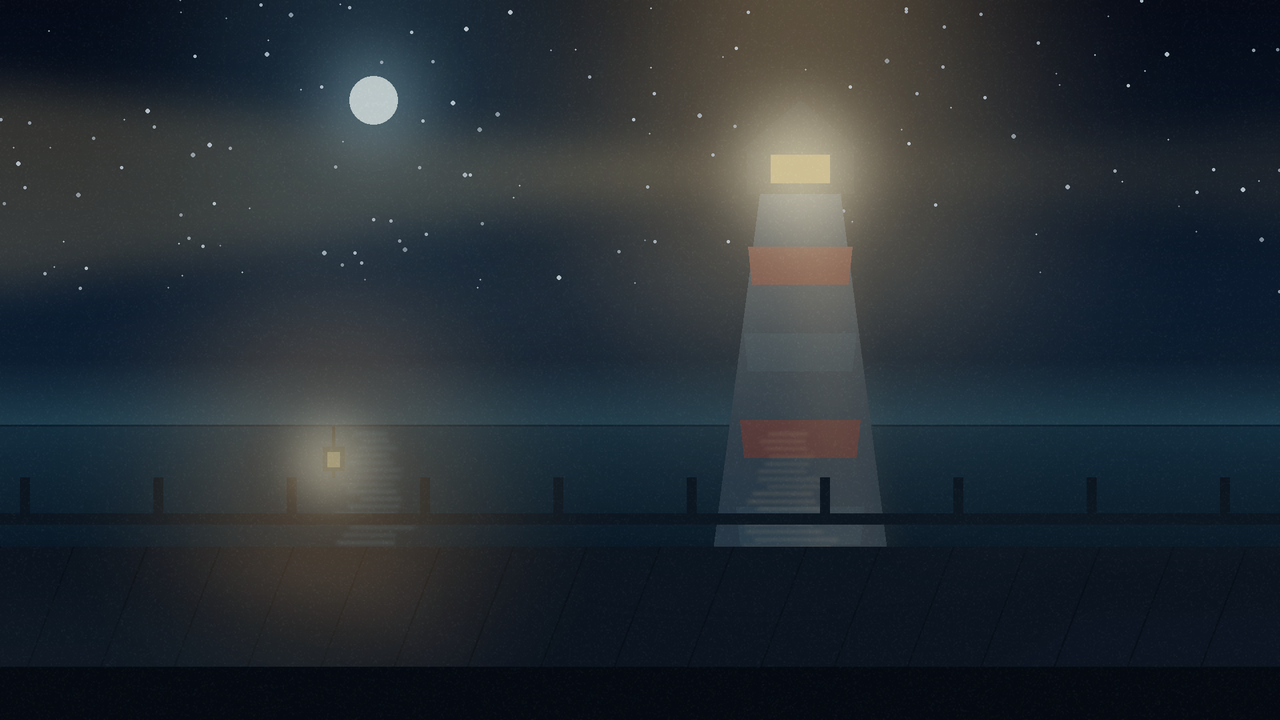
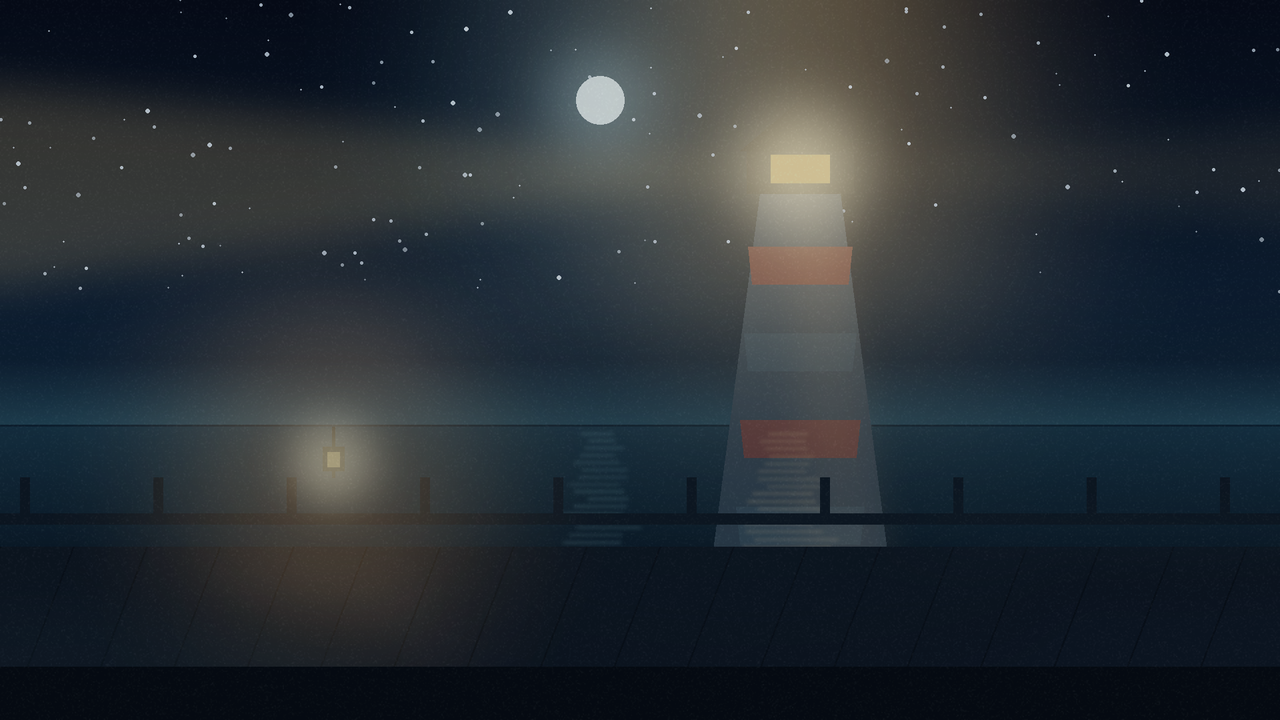
V0.5: web skin for loading status bar, moon placement, opaque textbox, v05 browser flow

Changed region(s): [[0.1875, 0.0, 0.3438, 0.275], [0.4062, 0.0, 0.5625, 0.2444]]

diff --git a/tools/web_test/v05_flow.js b/tools/web_test/v05_flow.js
@@ -1,0 +1,270 @@
+// V0.5 前后对比截图 + 流程冒烟（Playwright + 系统 Chrome）。由 v02_flow.js 改写，界面坐标与 V0.2 相同。
+//   --ui before|after：before = main 上的 V0.2-P1 构建；after = V0.5 构建（多一个 splashscreen）。两者按钮坐标相同。
+//   额外：捕捉“加载画面”（页面 presplash 阶段、游戏内 splash 阶段）并校验 presplash 图确实是自制的那一张。
+//
+// 重要：这是【桌面 Chromium】（含视口 / 触控 / iPhone UA 模拟），不是真实手机，更不是 iOS Safari。
+//
+// 用法：
+//   node v02_flow.js compare  --ui v01|v02 --viewport desktop|mobile --url http://127.0.0.1:8002/index.html --out <目录>
+//   node v02_flow.js saveload --ui v02 --viewport desktop|mobile --url ... --out <目录>
+// compare：从主菜单开始，真实点击/按键走完 3 条分支（选项 1/1/1、2/2/2、3/3/3），沿途保存
+//          主菜单 / 对话 / 三次选项 / 三个结局卡片 / 返回主菜单 的截图，并核对到达的结局。
+// saveload：第一个选项后在第二次选择处存档 -> 刷新页面 -> 读档 -> 按 +0/+0 通关，应到达结局二（信任度 2 被恢复）。
+const { chromium } = require('playwright-core');
+const { PNG } = require('pngjs');
+const fs = require('fs');
+const path = require('path');
+
+const argv = process.argv.slice(2);
+const cmd = argv[0] || 'compare';
+const opt = (n, d) => { const i = argv.indexOf('--' + n); return i >= 0 ? argv[i + 1] : d; };
+const UI_TAG = opt('ui', 'after');
+const UI = 'v02';  // 界面坐标 / 判读逻辑沿用 V0.2
+const VP = opt('viewport', 'desktop');
+const URL = opt('url', 'http://127.0.0.1:8002/index.html');
+const OUT = path.resolve(opt('out', 'shots'));
+fs.mkdirSync(OUT, { recursive: true });
+
+const MOBILE = VP === 'mobile';
+const sleep = ms => new Promise(r => setTimeout(r, ms));
+const IPHONE_UA = 'Mozilla/5.0 (iPhone; CPU iPhone OS 17_5 like Mac OS X) AppleWebKit/605.1.15 (KHTML, like Gecko) Version/17.5 Mobile/15E148 Safari/604.1';
+const ctxOpts = MOBILE
+  ? { viewport: { width: 844, height: 390 }, deviceScaleFactor: 2, isMobile: true, hasTouch: true, userAgent: IPHONE_UA }
+  : { viewport: { width: 1280, height: 720 } };
+
+// 各版本界面里的点击坐标（游戏逻辑坐标 1280x720）
+const UIS = {
+  v01: { start: [96, 277], load: [96, 319], choiceX: 640, choiceY: [366, 422, 480], quickSave: [662, 710], slot1: [503, 280], advance: [640, 120] },
+  v02: { start: [140, 282], load: [140, 350], choiceX: 640, choiceY: [125, 237, 345], quickSave: [864, 528], quickSaveTouch: [1083, 530], slot1: [549, 294], advance: [640, 20] },
+};
+const U = UIS[UI];
+
+const results = [];
+const record = (name, ok, detail) => { results.push({ name, ok, detail }); console.log(`${ok ? 'PASS' : 'FAIL'}  ${name}${detail ? ' — ' + detail : ''}`); };
+
+function launch() {
+  return chromium.launch({ executablePath: process.env.CHROME_PATH || '/usr/local/bin/google-chrome', args: ['--no-sandbox', '--use-gl=swiftshader', '--enable-unsafe-swiftshader'] });
+}
+
+async function open(browser, ctx = null) {
+  ctx = ctx || await browser.newContext(ctxOpts);
+  const page = await ctx.newPage();
+  const logs = [];
+  page.on('console', m => { const t = m.text(); if (!/GL Driver Message/.test(t)) logs.push(`${m.type()}: ${t.slice(0, 300)}`); });
+  page.on('pageerror', e => logs.push('pageerror: ' + e.message.slice(0, 300)));
+  page.on('requestfailed', r => logs.push('requestfailed: ' + r.url()));
+  page.on('response', r => { if (r.status() >= 400) logs.push(`http ${r.status()}: ${r.url()}`); });
+  return { ctx, page, logs };
+}
+const errorCount = logs => logs.filter(l => /pageerror|requestfailed|^http [45]|^error/i.test(l)).length;
+
+const grab = async page => PNG.sync.read(await page.screenshot());
+const savePng = (img, name) => fs.writeFileSync(path.join(OUT, `${UI_TAG}-${VP}-${name}.png`), PNG.sync.write(img));
+
+function geo(page, img) {
+  const vp = page.viewportSize();
+  const scale = Math.min(vp.width / 1280, vp.height / 720);
+  const ox = (vp.width - 1280 * scale) / 2, oy = (vp.height - 720 * scale) / 2;
+  const k = img ? img.width / vp.width : 1;
+  return { scale, ox, oy, k, px: gx => Math.round((ox + gx * scale) * k), py: gy => Math.round((oy + gy * scale) * k) };
+}
+async function tap(page, gx, gy) {
+  const g = geo(page);
+  const x = g.ox + gx * g.scale, y = g.oy + gy * g.scale;
+  if (MOBILE) await page.touchscreen.tap(x, y); else await page.mouse.click(x, y);
+}
+async function advance(page) {
+  if (MOBILE) await tap(page, ...U.advance); else await page.keyboard.press('Enter');
+}
+
+// 游戏坐标区域内的像素差异数（容差为 RGB 差值之和）
+function regionDiff(a, b, page, [x0, y0, x1, y1], tol = 24) {
+  if (a.width !== b.width || a.height !== b.height) return Infinity;
+  const g = geo(page, a);
+  let n = 0;
+  for (let y = g.py(y0); y < g.py(y1); y++) for (let x = g.px(x0); x < g.px(x1); x++) {
+    const i = (y * a.width + x) * 4;
+    if (Math.abs(a.data[i] - b.data[i]) + Math.abs(a.data[i + 1] - b.data[i + 1]) + Math.abs(a.data[i + 2] - b.data[i + 2]) > tol) n++;
+  }
+  return n;
+}
+const FULL = [0, 0, 1280, 720];
+// V0.5：立绘呼吸、灯光呼吸会让两侧与灯下像素持续微动，所以停住判读只看对话框中间一段（避开立绘）
+const TEXT_REGION = [420, 560, 860, 700];
+function countNear(img, page, rect, rgb, dist = 36) {
+  const g = geo(page, img);
+  let n = 0;
+  for (let y = g.py(rect[1]); y < g.py(rect[3]); y++) for (let x = g.px(rect[0]); x < g.px(rect[2]); x++) {
+    const i = (y * img.width + x) * 4;
+    if (Math.abs(img.data[i] - rgb[0]) + Math.abs(img.data[i + 1] - rgb[1]) + Math.abs(img.data[i + 2] - rgb[2]) < dist) n++;
+  }
+  return n;
+}
+// V0.2 结局卡片：用标题字色识别（结局一金 / 结局二冷白 / 结局三冷青灰）
+const TINTS = { 1: [246, 213, 142], 2: [216, 236, 238], 3: [143, 182, 196] };
+function cardNumber(img, page) {
+  const rect = [330, 150, 950, 300];
+  let best = null, bestN = 0;
+  for (const [n, rgb] of Object.entries(TINTS)) {
+    const c = countNear(img, page, rect, rgb, 20);
+    if (c > bestN) { bestN = c; best = Number(n); }
+  }
+  const minPx = 600 * geo(page, img).scale * geo(page, img).k * geo(page, img).scale * geo(page, img).k;
+  return bestN > minPx ? best : null;
+}
+function isMainMenu(img, page) {
+  if (UI === 'v01') {
+    const g = geo(page, img);
+    const px = (gx, gy) => { const i = (g.py(gy) * img.width + g.px(gx)) * 4; return [img.data[i], img.data[i + 1], img.data[i + 2]]; };
+    return px(100, 100).every(v => v < 40) && px(100, 600).every(v => v < 40);
+  }
+  return countNear(img, page, [40, 60, 520, 160], [246, 213, 142], 30) > 400 * Math.pow(geo(page, img).scale * geo(page, img).k, 2);
+}
+
+// 加载阶段取帧：页面 presplash 阶段 / 游戏内 splash 阶段（V0.5 才有）。返回 {presplash, splash, info}
+const SPLASH_RECT = [380, 150, 900, 330];   // 游戏坐标：splash 标题“雾港来信”所在区域（金色字）
+async function waitMainMenu(page, timeoutMs = 300000, loadingCapture = false) {
+  const t0 = Date.now();
+  let prev = await grab(page), stable = 0;
+  const cap = { presplash: null, splash: null, info: null };
+  while (Date.now() - t0 < timeoutMs) {
+    await sleep(loadingCapture ? 400 : 1000);
+    const cur = await grab(page);
+    if (loadingCapture) {
+      const dom = await page.evaluate(() => {
+        const el = document.getElementById('presplash');
+        if (!el) return null;
+        const cs = getComputedStyle(el);
+        return { src: el.getAttribute('src'), display: cs.display, naturalWidth: el.naturalWidth, naturalHeight: el.naturalHeight, complete: el.complete };
+      });
+      if (dom && dom.display !== 'none' && dom.complete && !cap.presplash) { cap.presplash = cur; cap.info = dom; }
+      const gold = countNear(cur, page, SPLASH_RECT, [246, 214, 144], 40);
+      const preVisible = dom && dom.display !== 'none';
+      if (!preVisible && gold > 3000 * Math.pow(geo(page, cur).scale * geo(page, cur).k, 2) && !cap.splash) cap.splash = cur;
+    }
+    stable = regionDiff(prev, cur, page, FULL) < 3000 ? stable + 1 : 0;
+    prev = cur;
+    if (isMainMenu(cur, page) && stable >= 2) { cap.sec = (Date.now() - t0) / 1000; return loadingCapture ? cap : cap.sec; }
+  }
+  throw new Error('等待主菜单超时');
+}
+
+// 推进剧情，直到画面停住（选项菜单 / V0.2 结局卡片 / 回到主菜单）。返回所有帧。
+async function advanceUntilStuck(page, { maxSteps = 90, stopOnCard = false, stepMs = 1300 } = {}) {
+  const region = UI === 'v01' ? FULL : TEXT_REGION;
+  const thresh = UI === 'v01' ? 200 : 60;
+  const frames = [await grab(page)];
+  let same = 0;
+  for (let i = 0; i < maxSteps; i++) {
+    await advance(page);
+    await sleep(stepMs);
+    const cur = await grab(page);
+    frames.push(cur);
+    if (stopOnCard && UI === 'v02' && cardNumber(cur, page)) { frames.card = true; return frames; }
+    same = regionDiff(frames[frames.length - 2], cur, page, region) < thresh ? same + 1 : 0;
+    if (same >= 2) return frames;
+  }
+  throw new Error('推进剧情超过最大步数仍未停下');
+}
+
+async function pickChoice(page, idx) {
+  await tap(page, U.choiceX, U.choiceY[idx]);
+  await sleep(1600);
+}
+
+async function playBranch(browser, tag, picks, expected, extra) {
+  const { page, logs } = await open(browser);
+  await page.goto(URL);
+  let loadSec;
+  if (extra) {
+    const cap = await waitMainMenu(page, 300000, true);
+    loadSec = cap.sec;
+    if (cap.presplash) savePng(cap.presplash, '00-loading-presplash');
+    if (cap.splash) savePng(cap.splash, '00b-loading-splash');
+    record(`${UI_TAG}/${VP} 加载画面`, !!cap.presplash,
+      `页面 presplash：${JSON.stringify(cap.info)}；捕捉到页面 presplash 帧=${!!cap.presplash}；捕捉到游戏内 splash 帧=${!!cap.splash}（before 构建没有 splash，期望 false）`);
+  } else {
+    loadSec = await waitMainMenu(page);
+  }
+  const main = await grab(page);
+  if (extra) savePng(main, '01-main-menu');
+  await tap(page, ...U.start);
+  await sleep(4500);
+  for (let m = 0; m < 3; m++) {
+    const frames = await advanceUntilStuck(page, { stepMs: extra && m === 0 ? 2300 : 1300 });
+    let idxFirst = frames.length - 1;
+    while (idxFirst > 0 && regionDiff(frames[idxFirst - 1], frames[idxFirst], page, TEXT_REGION) < 60) idxFirst--;
+    if (extra) {
+      savePng(frames[Math.max(0, idxFirst - 2)], `02-dialogue-${m + 1}`);
+      savePng(frames[frames.length - 1], `03-choice-${m + 1}`);
+    }
+    await pickChoice(page, picks[m]);
+  }
+  const frames = await advanceUntilStuck(page, { stopOnCard: true, maxSteps: 120 });
+  await sleep(2500);
+  const card = await grab(page);
+  const ending = cardNumber(card, page);
+  savePng(frames[Math.max(0, frames.length - 3)], `04-ending-${expected}-dialogue`);
+  savePng(card, `05-ending-${expected}-card`);
+  await tap(page, 640, 648);
+  await sleep(3500);
+  const backAtMenu = isMainMenu(await grab(page), page);
+  const ok = ending === expected && backAtMenu && errorCount(logs) === 0;
+  record(`${UI_TAG}/${VP} 分支 ${tag}（选项 ${picks.map(p => p + 1).join('/')}）`, ok,
+    `到达结局卡片=${ending}（期望 ${expected}）；回到主菜单=${backAtMenu}；页面错误/失败请求=${errorCount(logs)}；首次到主菜单 ${loadSec.toFixed(1)}s`);
+  await page.close();
+}
+
+async function compare(browser) {
+  await playBranch(browser, 'A_true', [0, 0, 0], 1, true);
+  await playBranch(browser, 'B_half', [1, 1, 1], 2, false);
+  await playBranch(browser, 'C_miss', [2, 2, 2], 3, false);
+}
+
+async function saveload(browser) {
+  const ctx = await browser.newContext(ctxOpts);
+  let { page, logs } = await open(browser, ctx);
+  await page.goto(URL);
+  await waitMainMenu(page);
+  await tap(page, ...U.start); await sleep(4500);
+  await advanceUntilStuck(page); await pickChoice(page, 0);
+  await advanceUntilStuck(page);
+  await tap(page, ...(MOBILE && U.quickSaveTouch ? U.quickSaveTouch : U.quickSave)); await sleep(2200);
+  savePng(await grab(page), 'save-1-screen');
+  await tap(page, ...U.slot1); await sleep(2200);
+  savePng(await grab(page), 'save-2-slot1-saved');
+  await page.close();
+
+  ({ page, logs } = await open(browser, ctx));
+  await page.goto(URL);
+  await waitMainMenu(page);
+  await tap(page, ...U.load); await sleep(2500);
+  savePng(await grab(page), 'save-3-load-screen-after-reload');
+  await tap(page, ...U.slot1); await sleep(3500);
+  savePng(await grab(page), 'save-4-after-load');
+  await pickChoice(page, 1);
+  await advanceUntilStuck(page); await pickChoice(page, 1);
+  const frames = await advanceUntilStuck(page, { stopOnCard: true, maxSteps: 120 });
+  await sleep(2500);
+  const card = await grab(page);
+  const ending = UI === 'v02' ? cardNumber(card, page) : null;
+  savePng(card, 'save-5-ending-after-load');
+  record(`${UI_TAG}/${VP} 存档 -> 刷新页面 -> 读档 -> 按 +0/+0 通关`, ending === 2 && errorCount(logs) === 0,
+    `读档后到达结局=${ending}（期望 2；信任度未恢复则会是 3）；页面错误/失败请求=${errorCount(logs)}`);
+  await page.close();
+}
+
+(async () => {
+  const browser = await launch();
+  try {
+    if (cmd === 'compare') await compare(browser);
+    else if (cmd === 'saveload') await saveload(browser);
+    else throw new Error('未知子命令 ' + cmd);
+  } catch (e) {
+    record('脚本异常', false, e.message);
+  } finally {
+    await browser.close();
+  }
+  fs.writeFileSync(path.join(OUT, `${cmd}-${UI_TAG}-${VP}.json`), JSON.stringify({ ui: UI_TAG, viewport: VP, url: URL, results }, null, 2));
+  process.exit(results.every(r => r.ok) ? 0 : 1);
+})();

diff --git a/tools/verify_web_build.py b/tools/verify_web_build.py
@@ -3,7 +3,7 @@
 
   apply-presplash <项目目录> <产物目录>
       把项目根目录的 web-presplash.(png|jpg|webp) 放进产物，删除 Ren'Py 默认的 web-presplash.jpg，
-      改写 index.html / pwa_catalog.json 的引用，并按 Launcher 的方式重新生成 <产物目录>.zip。
+      改写 index.html / pwa_catalog.json 的引用，给加载状态条注入一小段 CSS 外观覆盖，并按 Launcher 的方式重新生成 <产物目录>.zip。
       （官方 CLI web_build 在这一步有 bug，见 tools/build_web.sh 里的说明；Launcher 图形界面没有。）
   check <项目目录> <产物目录>
       校验：index.html 引用的 presplash 存在且与项目文件逐字节一致；默认 presplash 已被替换；
@@ -16,6 +16,17 @@ import re
 import shutil
 import sys
 import zipfile
+
+SKIN_MARK = "mistharbor-web-skin"
+## 只覆盖 index.html 顶部“加载状态条”的外观（默认是黑底 + 浏览器原生蓝色进度条）与页面底色，使其与夜雾港口风格一致。
+## 没有改动任何脚本 / 加载逻辑。
+SKIN_CSS = """  <style id="mistharbor-web-skin">
+    html, body { background: #05080d; }
+    #statusDiv { background: rgba(6, 12, 22, 0.86); border-bottom: 1px solid rgba(95, 184, 196, 0.55); border-radius: 0 0 10px 10px; }
+    #statusTextDiv { color: #9fc4cf; letter-spacing: 0.04em; }
+    #statusProgress { accent-color: #f3c677; }
+    #ContextButton { color: rgba(159, 196, 207, 0.8); }
+  </style>"""
 
 NAMES = ["web-presplash.png", "web-presplash.jpg", "web-presplash.webp"]
 
@@ -40,6 +51,8 @@ def apply_presplash(project, out):
     with open(idx, encoding="utf-8") as f:
         html = f.read()
     html = html.replace("web-presplash.jpg", name)
+    if SKIN_MARK not in html:
+        html = html.replace("</head>", SKIN_CSS + "\n</head>", 1)
     with open(idx, "w", encoding="utf-8") as f:
         f.write(html)
     cat = os.path.join(out, "pwa_catalog.json")
@@ -78,6 +91,8 @@ def check(project, out):
                     errs.append("产物里的 %s 与项目文件不一致" % ref)
         if name != "web-presplash.jpg" and os.path.exists(os.path.join(out, "web-presplash.jpg")):
             errs.append("产物里仍有 Ren'Py 默认 web-presplash.jpg")
+        if SKIN_MARK not in html:
+            errs.append("index.html 缺少加载状态条样式（%s）" % SKIN_MARK)
     with zipfile.ZipFile(os.path.join(out, "game.zip")) as zf:
         names = zf.namelist()
     for n in names:

diff --git a/tools/generate_v05_art.py b/tools/generate_v05_art.py
@@ -325,14 +325,14 @@ def bg_lighthouse():
     img = vgrad((W, H), [(0, (4, 8, 20)), (0.5, (14, 34, 56)), (0.59, (38, 78, 98)), (0.5901, (14, 36, 54)), (1, (5, 12, 22))])
     img = stars(img, 5, 150, 440, (1, 1, 2, 2, 3))
     # 月亮（左）与月晕
-    img = add_glow(img, (560, 150), 240, (110, 170, 190), 0.5)
+    img = add_glow(img, (900, 150), 240, (110, 170, 190), 0.5)
     d = ImageDraw.Draw(img)
-    d.ellipse([524, 114, 596, 186], fill=(222, 236, 234))
-    img = add_glow(img, (560, 150), 80, (170, 214, 220), 0.4)
+    d.ellipse([864, 114, 936, 186], fill=(222, 236, 234))
+    img = add_glow(img, (900, 150), 80, (170, 214, 220), 0.4)
     horizon = 640
     sea = vgrad((W, H - horizon), [(0, (24, 56, 76)), (0.4, (10, 28, 44)), (1, (5, 12, 22))])
     img.paste(sea, (0, horizon))
-    img = light_streaks(img, 560, horizon + 10, horizon + 250, (120, 170, 180), 5, spread=60, count=22, alpha=130)
+    img = light_streaks(img, 900, horizon + 10, horizon + 250, (120, 170, 180), 5, spread=60, count=22, alpha=130)
     # 灯塔（右侧，主视觉）
     tx = 1200
     d = ImageDraw.Draw(img)

diff --git a/tools/generate_ui.py b/tools/generate_ui.py
@@ -99,7 +99,7 @@ def make_textbox(W=1280, H=260):
     for y in range(top):
         fade.putpixel((0, y), int(150 * (y / top) ** 1.6))
     img.paste(Image.new("RGBA", (W, top), rgba(NAVY0)), (0, 0), fade.resize((W, top)))
-    body = Image.new("RGBA", (W, H - top), rgba(NAVY1, 224))
+    body = Image.new("RGBA", (W, H - top), rgba(NAVY1, 244))
     # 底部更深
     shade = Image.new("L", (1, H - top))
     for y in range(H - top):
